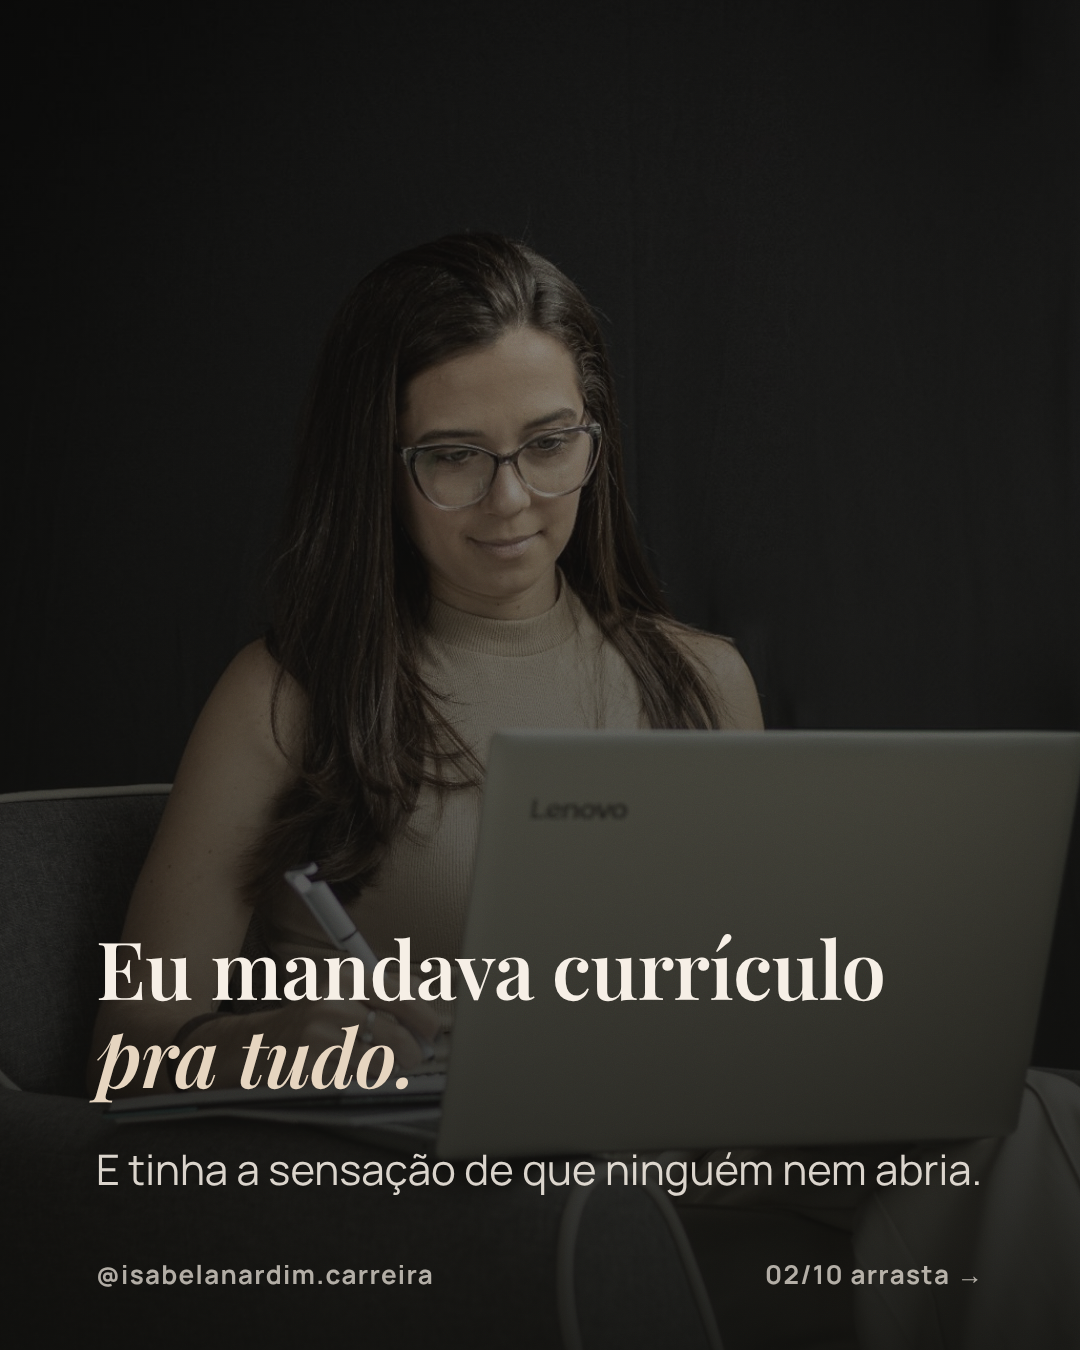
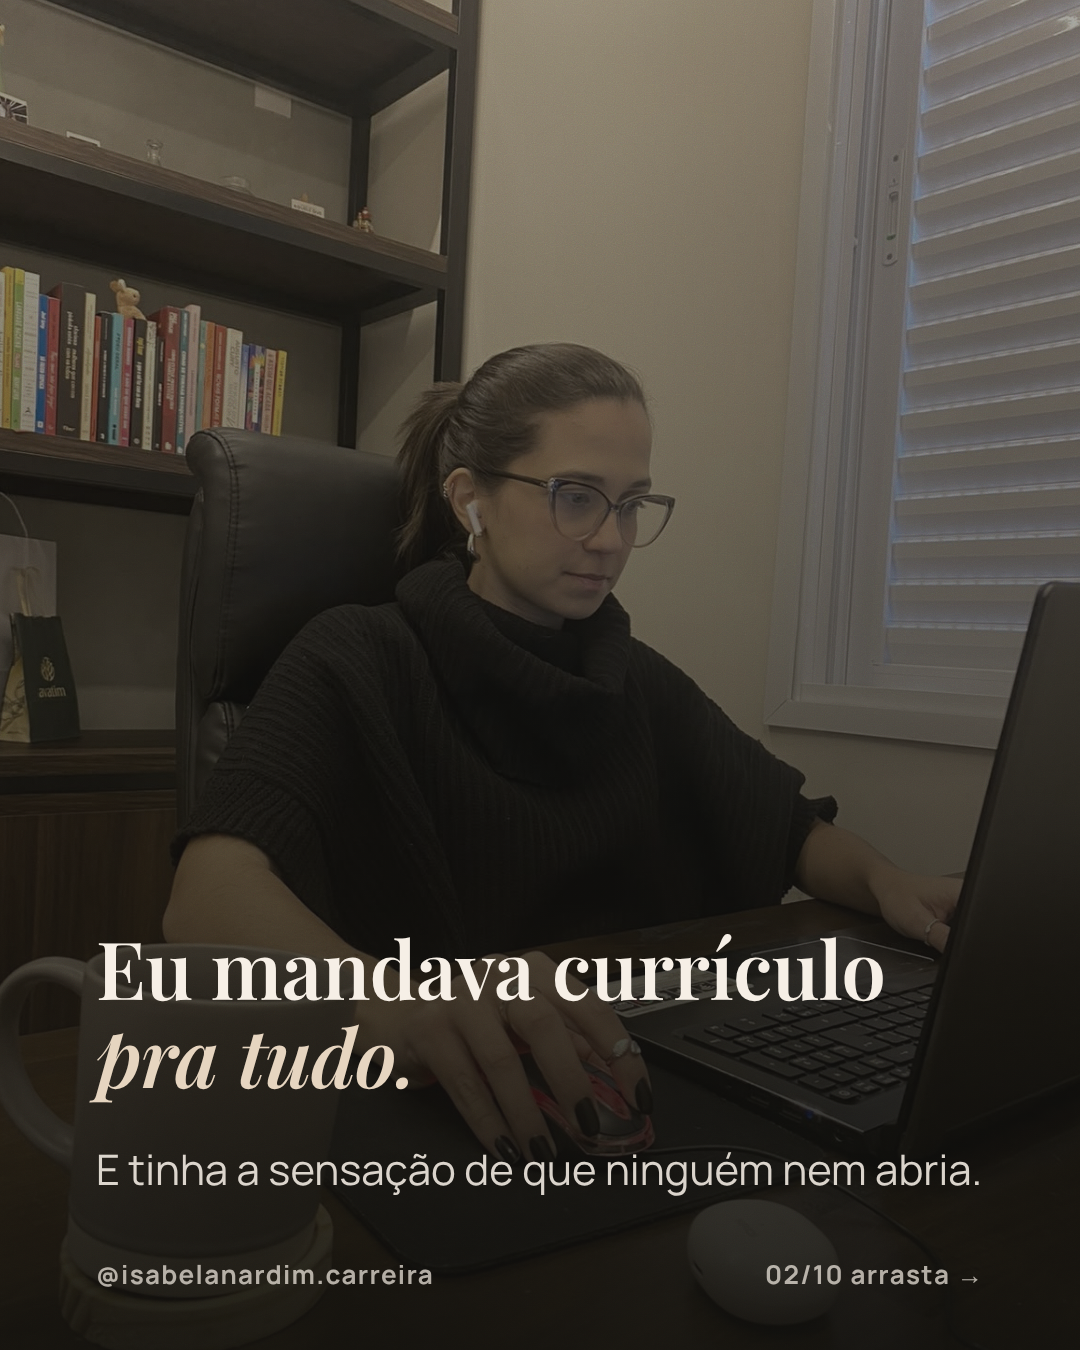
Carrossel 02: versão orgânica com fotos do escritório
Claude-Session: https://claude.ai/code/session_01AzuLBoXsmNsssuJ9XVMdYB

diff --git a/conteudo/carrossel-02-minha-historia/slides.html b/conteudo/carrossel-02-minha-historia/slides.html
@@ -23,29 +23,30 @@ em{font-style:italic}
 .claro{color:#1d1c19}.claro .bg{filter:saturate(.35) brightness(1.1)}.claro .veu{background:linear-gradient(180deg,rgba(246,239,230,.55) 0%,rgba(246,239,230,.8) 45%,rgba(246,239,230,.96) 100%)}
 .claro em{color:#4b5233}.claro .kicker{color:#4b5233}.claro b{color:#353a23}.claro h2{color:#0e0e0c}
 .claro .nota{background:#353a23;color:#f6efe6}.claro .rodape{color:rgba(29,28,25,.6)}
+.topo .cont{top:130px;bottom:auto}.claro.topo .veu{background:linear-gradient(0deg,rgba(246,239,230,.25) 0%,rgba(246,239,230,.75) 50%,rgba(246,239,230,.95) 100%)}.topo .cont{top:100px}.topo .lista{gap:14px}.topo .lista li{font-size:34px;padding:18px 26px}.topo .kicker{margin-bottom:22px}
 .musgo{color:#f6efe6}.musgo .bg{filter:grayscale(1) contrast(1.05)}.musgo .veu{background:linear-gradient(180deg,rgba(53,58,35,.78),rgba(53,58,35,.95))}
 .musgo em{color:#e6d5c0}.musgo .kicker{color:#d9c3a8}.musgo .rodape{color:rgba(246,239,230,.7)}
 </style></head><body>
 <section class="s escuro" id="s1"><div class="bg" style="background-image:url(fotos/ponte.jpg);background-position:62% 40%"></div><div class="veu"></div><div class="grao"></div><div class="cont"><span class="tag">Minha história</span>
 <h1>Eu só queria um emprego <em>depois de formada.</em></h1>
 <p class="txt">E ninguém me respondia.</p></div><div class="rodape"><span>@isabelanardim.carreira</span><span>01/10 arrasta →</span></div></section>
-<section class="s escuro" id="s2"><div class="bg" style="background-image:url(fotos/notebook.jpg);background-position:50% 45%"></div><div class="veu"></div><div class="grao"></div><div class="cont"><h2>Eu mandava currículo <em>pra tudo.</em></h2>
+<section class="s escuro" id="s2"><div class="bg" style="background-image:url(fotos/mesa-digitando.jpg);background-position:50% 30%"></div><div class="veu"></div><div class="grao"></div><div class="cont"><h2>Eu mandava currículo <em>pra tudo.</em></h2>
 <p class="txt">E tinha a sensação de que ninguém nem abria.</p></div><div class="rodape"><span>@isabelanardim.carreira</span><span>02/10 arrasta →</span></div></section>
-<section class="s escuro" id="s3"><div class="bg" style="background-image:url(fotos/palmeiras.jpg);background-position:50% 60%"></div><div class="veu"></div><div class="grao"></div><div class="cont"><h2>Então fiz o que todo mundo manda fazer:</h2>
+<section class="s escuro" id="s3"><div class="bg" style="background-image:url(fotos/notebook.jpg);background-position:50% 45%"></div><div class="veu"></div><div class="grao"></div><div class="cont"><h2>Então fiz o que todo mundo manda fazer:</h2>
 <p class="nota">mandei ainda mais currículos.</p></div><div class="rodape"><span>@isabelanardim.carreira</span><span>03/10 arrasta →</span></div></section>
 <section class="s escuro" id="s4"><div class="bg" style="background-image:url(fotos/bracos.jpg);background-position:50% 25%"></div><div class="veu"></div><div class="grao"></div><div class="cont"><h2>Quando me chamavam para entrevista, <em>eu era reprovada.</em></h2>
 <p class="txt">E ninguém me dizia por quê.</p></div><div class="rodape"><span>@isabelanardim.carreira</span><span>04/10 arrasta →</span></div></section>
 <section class="s escuro" id="s5"><div class="bg" style="background-image:url(fotos/janela.jpg);background-position:50% 30%"></div><div class="veu"></div><div class="grao"></div><div class="cont"><h2><em>"Acho que o problema sou eu."</em></h2>
 <p class="txt">Teve dia em que eu pensei isso de verdade. Até que…</p></div><div class="rodape"><span>@isabelanardim.carreira</span><span>05/10 arrasta →</span></div></section>
-<section class="s claro" id="s6"><div class="bg" style="background-image:url(fotos/bracos.jpg);background-position:50% 45%"></div><div class="veu"></div><div class="grao"></div><div class="cont"><h2>Uma empresa onde eu fiz estágio me chamou para um freela de recrutamento.</h2>
+<section class="s claro" id="s6"><div class="bg" style="background-image:url(fotos/mesa-frente.jpg);background-position:50% 20%"></div><div class="veu"></div><div class="grao"></div><div class="cont"><h2>Uma empresa onde eu fiz estágio me chamou para um freela de recrutamento.</h2>
 <p class="nota">E eu fui parar do outro lado da mesa.</p></div><div class="rodape"><span>@isabelanardim.carreira</span><span>06/10 arrasta →</span></div></section>
-<section class="s claro" id="s7"><div class="bg" style="background-image:url(fotos/notebook.jpg);background-position:50% 70%"></div><div class="veu"></div><div class="grao"></div><div class="cont"><p class="kicker">Lá, tudo começou a fazer sentido</p>
+<section class="s claro topo" id="s7"><div class="bg" style="background-image:url(fotos/mesa-linkedin.jpg);background-position:30% 0%"></div><div class="veu"></div><div class="grao"></div><div class="cont"><p class="kicker">Lá, tudo começou a fazer sentido</p>
 <ul class="lista"><li>Vi o <b>ATS</b> filtrando currículos antes de qualquer pessoa ler</li>
 <li>Vi candidatos ótimos reprovados por <b>não saberem mostrar os próprios resultados</b></li>
 <li>E eu mesma buscava candidatos <b>direto no LinkedIn</b>, sem divulgar a vaga</li></ul></div><div class="rodape"><span>@isabelanardim.carreira</span><span>07/10 arrasta →</span></div></section>
 <section class="s musgo" id="s8"><div class="bg" style="background-image:url(fotos/palmeiras.jpg);background-position:30% 30%"></div><div class="veu"></div><div class="grao"></div><div class="cont"><p class="kicker">Foi aí que eu entendi</p>
 <h2 class="grande">Quem é contratado nem sempre é o melhor candidato.<br><em>É quem sabe ser encontrado.</em></h2></div><div class="rodape"><span>@isabelanardim.carreira</span><span>08/10 arrasta →</span></div></section>
-<section class="s escuro" id="s9"><div class="bg" style="background-image:url(fotos/praia.jpg);background-position:30% 50%"></div><div class="veu"></div><div class="grao"></div><div class="cont"><p class="kicker">6 anos como recrutadora</p>
+<section class="s escuro" id="s9"><div class="bg" style="background-image:url(fotos/mesa-escrevendo.jpg);background-position:60% 40%"></div><div class="veu"></div><div class="grao"></div><div class="cont"><p class="kicker">6 anos como recrutadora</p>
 <h2>E um dia ajudei um candidato a ajustar o LinkedIn.</h2>
 <p class="txt">Dois meses depois, ele voltou para me agradecer: tinha conseguido a vaga. Ali eu decidi ensinar as regras do jogo para quem está <b>do lado de cá</b>.</p></div><div class="rodape"><span>@isabelanardim.carreira</span><span>09/10 arrasta →</span></div></section>
 <section class="s escuro" id="s10"><div class="bg" style="background-image:url(fotos/espelho.jpg);background-position:50% 30%"></div><div class="veu"></div><div class="grao"></div><div class="cont"><p class="kicker">Meu conselho para você hoje</p>

diff --git a/conteudo/carrossel-02-minha-historia/textos.md b/conteudo/carrossel-02-minha-historia/textos.md
@@ -82,5 +82,5 @@ Se essa história é parecida com a sua, me conta aqui nos comentários. Eu leio
 ---
 
 ## NOTAS DE DESIGN
-- Mesmo visual do carrossel 01: capa preta com a sua foto, slides da narrativa em creme, o "fundo do poço" (slide 5) em preto, o insight (slide 8) em musgo e o CTA com a foto do notebook.
-- **Se tiver uma foto sua de formatura,** ela fica ótima no slide 1 ou no 2. É só me mandar que eu troco.
+- **Versão atual (orgânica):** cada slide tem uma foto sua de fundo, apagada (cores suavizadas + véu + grão). Dor (1–5) com véu escuro, virada (6–7) com véu claro, insight (8) em musgo, final (9–10) escuro. Fotos em `fotos/`.
+- **Versão 1 (clássica):** fundo liso nas cores da marca, guardada em `versao-1-classica/`.
